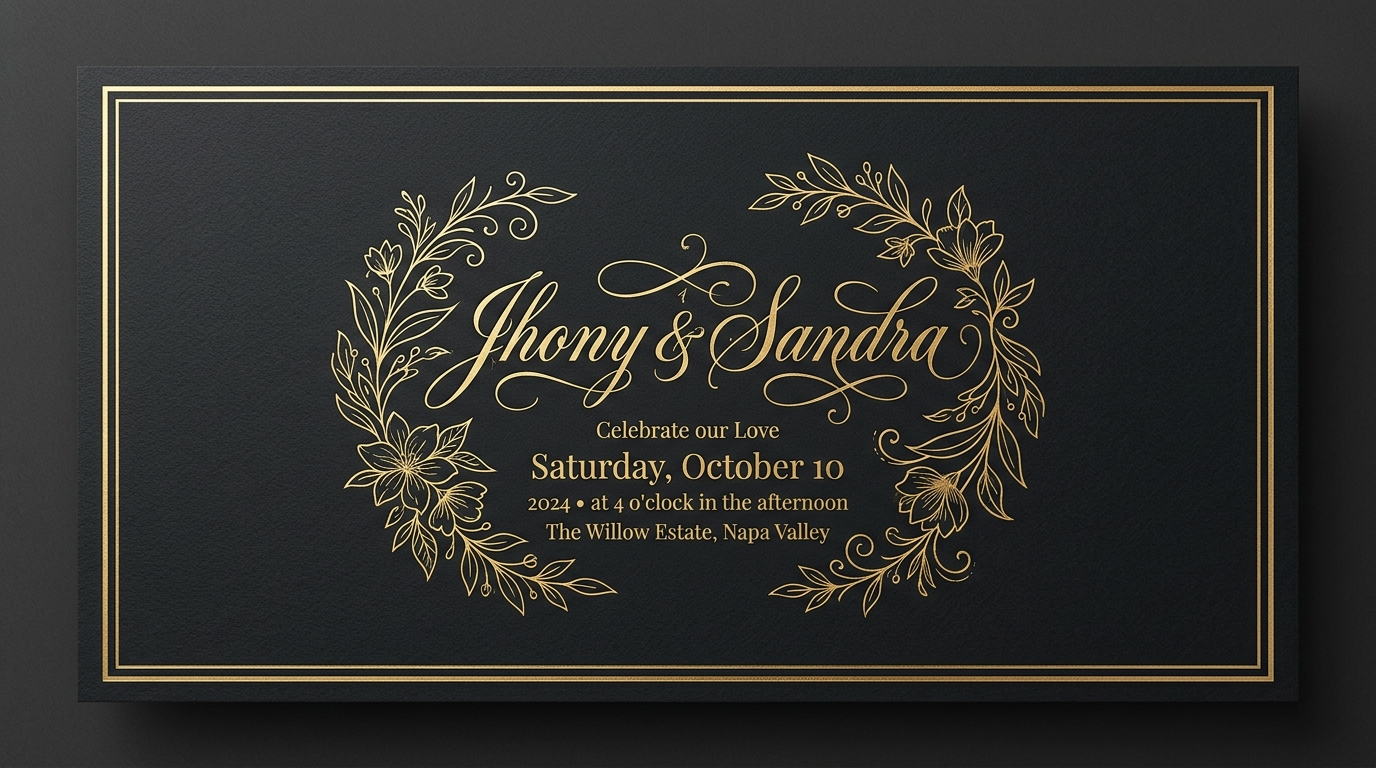
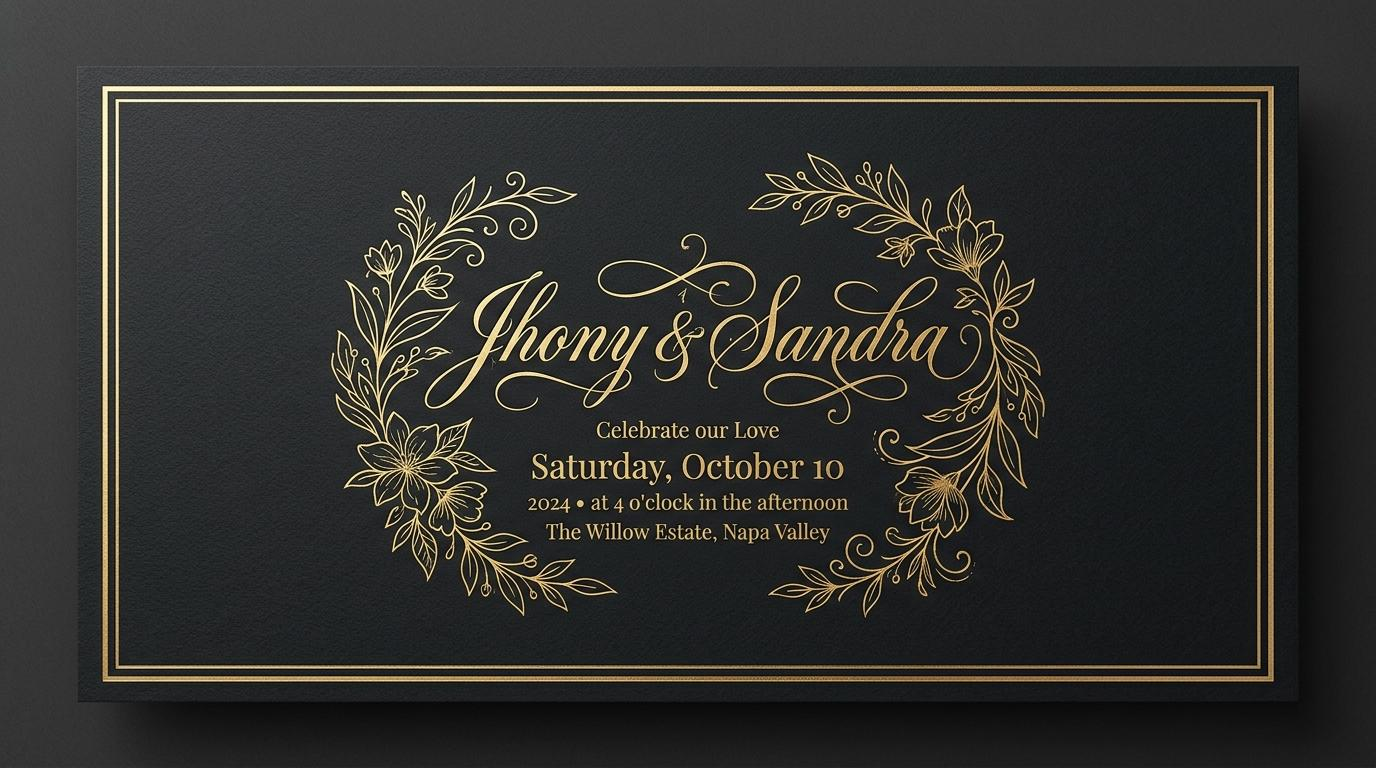
intial point

diff --git a/index.html b/index.html
@@ -12,10 +12,14 @@
   <link rel="apple-touch-icon" href="favicon.svg" />
 
   <!-- Open Graph / WhatsApp / Facebook Link Preview -->
+  <meta property="og:site_name" content="Jhony &amp; Sandra Wedding" />
   <meta property="og:type" content="website" />
+  <meta property="og:url" content="https://jhonyandsandra.onrender.com/" />
   <meta property="og:title" content="Jhony &amp; Sandra – Wedding Invitation" />
   <meta property="og:description" content="Saturday, October 10th · We cordially invite you to celebrate our wedding day with us." />
-  <meta property="og:image" content="preview.jpg" />
+  <meta property="og:image" content="https://jhonyandsandra.onrender.com/preview.jpg" />
+  <meta property="og:image:secure_url" content="https://jhonyandsandra.onrender.com/preview.jpg" />
+  <meta property="og:image:type" content="image/jpeg" />
   <meta property="og:image:width" content="1200" />
   <meta property="og:image:height" content="675" />
 
@@ -23,12 +27,12 @@
   <meta name="twitter:card" content="summary_large_image" />
   <meta name="twitter:title" content="Jhony &amp; Sandra – Wedding Invitation" />
   <meta name="twitter:description" content="Saturday, October 10th · We cordially invite you to celebrate our wedding day with us." />
-  <meta name="twitter:image" content="preview.jpg" />
+  <meta name="twitter:image" content="https://jhonyandsandra.onrender.com/preview.jpg" />
 
-  <!-- Fonts: Great Vibes (script names), Cinzel (small caps), Lato (body/sans) -->
+  <!-- Fonts: Cinzel (information, dates, headings) & Parisienne (main script names) -->
   <link rel="preconnect" href="https://fonts.googleapis.com" />
   <link rel="preconnect" href="https://fonts.gstatic.com" crossorigin />
-  <link href="https://fonts.googleapis.com/css2?family=Great+Vibes&family=Cinzel:wght@400;600&family=Lato:wght@300;400;700&family=Playfair+Display:ital,wght@0,400;0,700;1,400&display=swap" rel="stylesheet" />
+  <link href="https://fonts.googleapis.com/css2?family=Cinzel:wght@400..900&family=Parisienne&display=swap" rel="stylesheet" />
 
   <link rel="stylesheet" href="style.css" />
 </head>

diff --git a/app.js b/app.js
@@ -209,23 +209,24 @@ function exportToExcel() {
   ];
 
   /* Summary sheet */
-  const attending  = list.filter(g => !g.attendance?.startsWith('No'));
-  const notAttend  = list.filter(g =>  g.attendance?.startsWith('No'));
-  const totalHeads = attending.reduce((s, g) => s + (parseInt(g.guests) || 0), 0);
+  const attending     = list.filter(g => !g.attendance?.startsWith('No'));
+  const notAttend     = list.filter(g =>  g.attendance?.startsWith('No'));
+  const totalAttended = attending.reduce((s, g) => s + (parseInt(g.guests) || 0), 0);
+  const totalInvited  = list.reduce((s, g) => s + (parseInt(g.guests) || 0), 0);
 
   const wsSummary = XLSX.utils.aoa_to_sheet([
     ['Jhony & Sandra Wedding — RSVP Summary'],
     [''],
-    ['Wedding Date',         'Saturday, October 10, 2025'],
-    ['Ceremony',             'Edbel Church — 5:00 PM'],
-    ['Reception',            'Glamour Garden — 7:00 PM'],
+    ['Wedding Date',            'Saturday, October 10, 2025'],
+    ['Ceremony',                'Edbel Church — 5:00 PM'],
+    ['Reception',               'Glamour Garden — 7:00 PM'],
     [''],
-    ['Total Responses',      list.length],
-    ['Attending',            attending.length],
-    ['Not Attending',        notAttend.length],
-    ['Total Guests (heads)', totalHeads],
+    ['Total Attending Guests',  totalAttended],
+    ['Total Invited People',    totalInvited],
+    ['Total RSVP Responses',    list.length],
+    ['Not Attending Count',     notAttend.length],
     [''],
-    ['Report Generated',     new Date().toLocaleString('en-GB')],
+    ['Report Generated',        new Date().toLocaleString('en-GB')],
   ]);
   wsSummary['!cols'] = [{wch:30},{wch:36}];
 

diff --git a/style.css b/style.css
@@ -20,10 +20,20 @@
   --t:             0.3s cubic-bezier(.4,0,.2,1);
 
   /* Typography */
-  --f-script: 'Great Vibes', cursive;
-  --f-serif:  'Playfair Display', 'Georgia', serif;
-  --f-caps:   'Cinzel', 'Trajan Pro', serif;
-  --f-body:   'Lato', sans-serif;
+  --f-script: 'Parisienne', cursive;
+  --f-serif:  'Cinzel', serif;
+  --f-caps:   'Cinzel', serif;
+  --f-body:   'Cinzel', serif;
+}
+
+.parisienne-regular {
+  font-family: 'Parisienne', cursive;
+  font-weight: 400;
+  font-style: normal;
+}
+
+.cinzel-info {
+  font-family: 'Cinzel', serif;
 }
 
 /* ── Reset ───────────────────────────────────────────────── */
